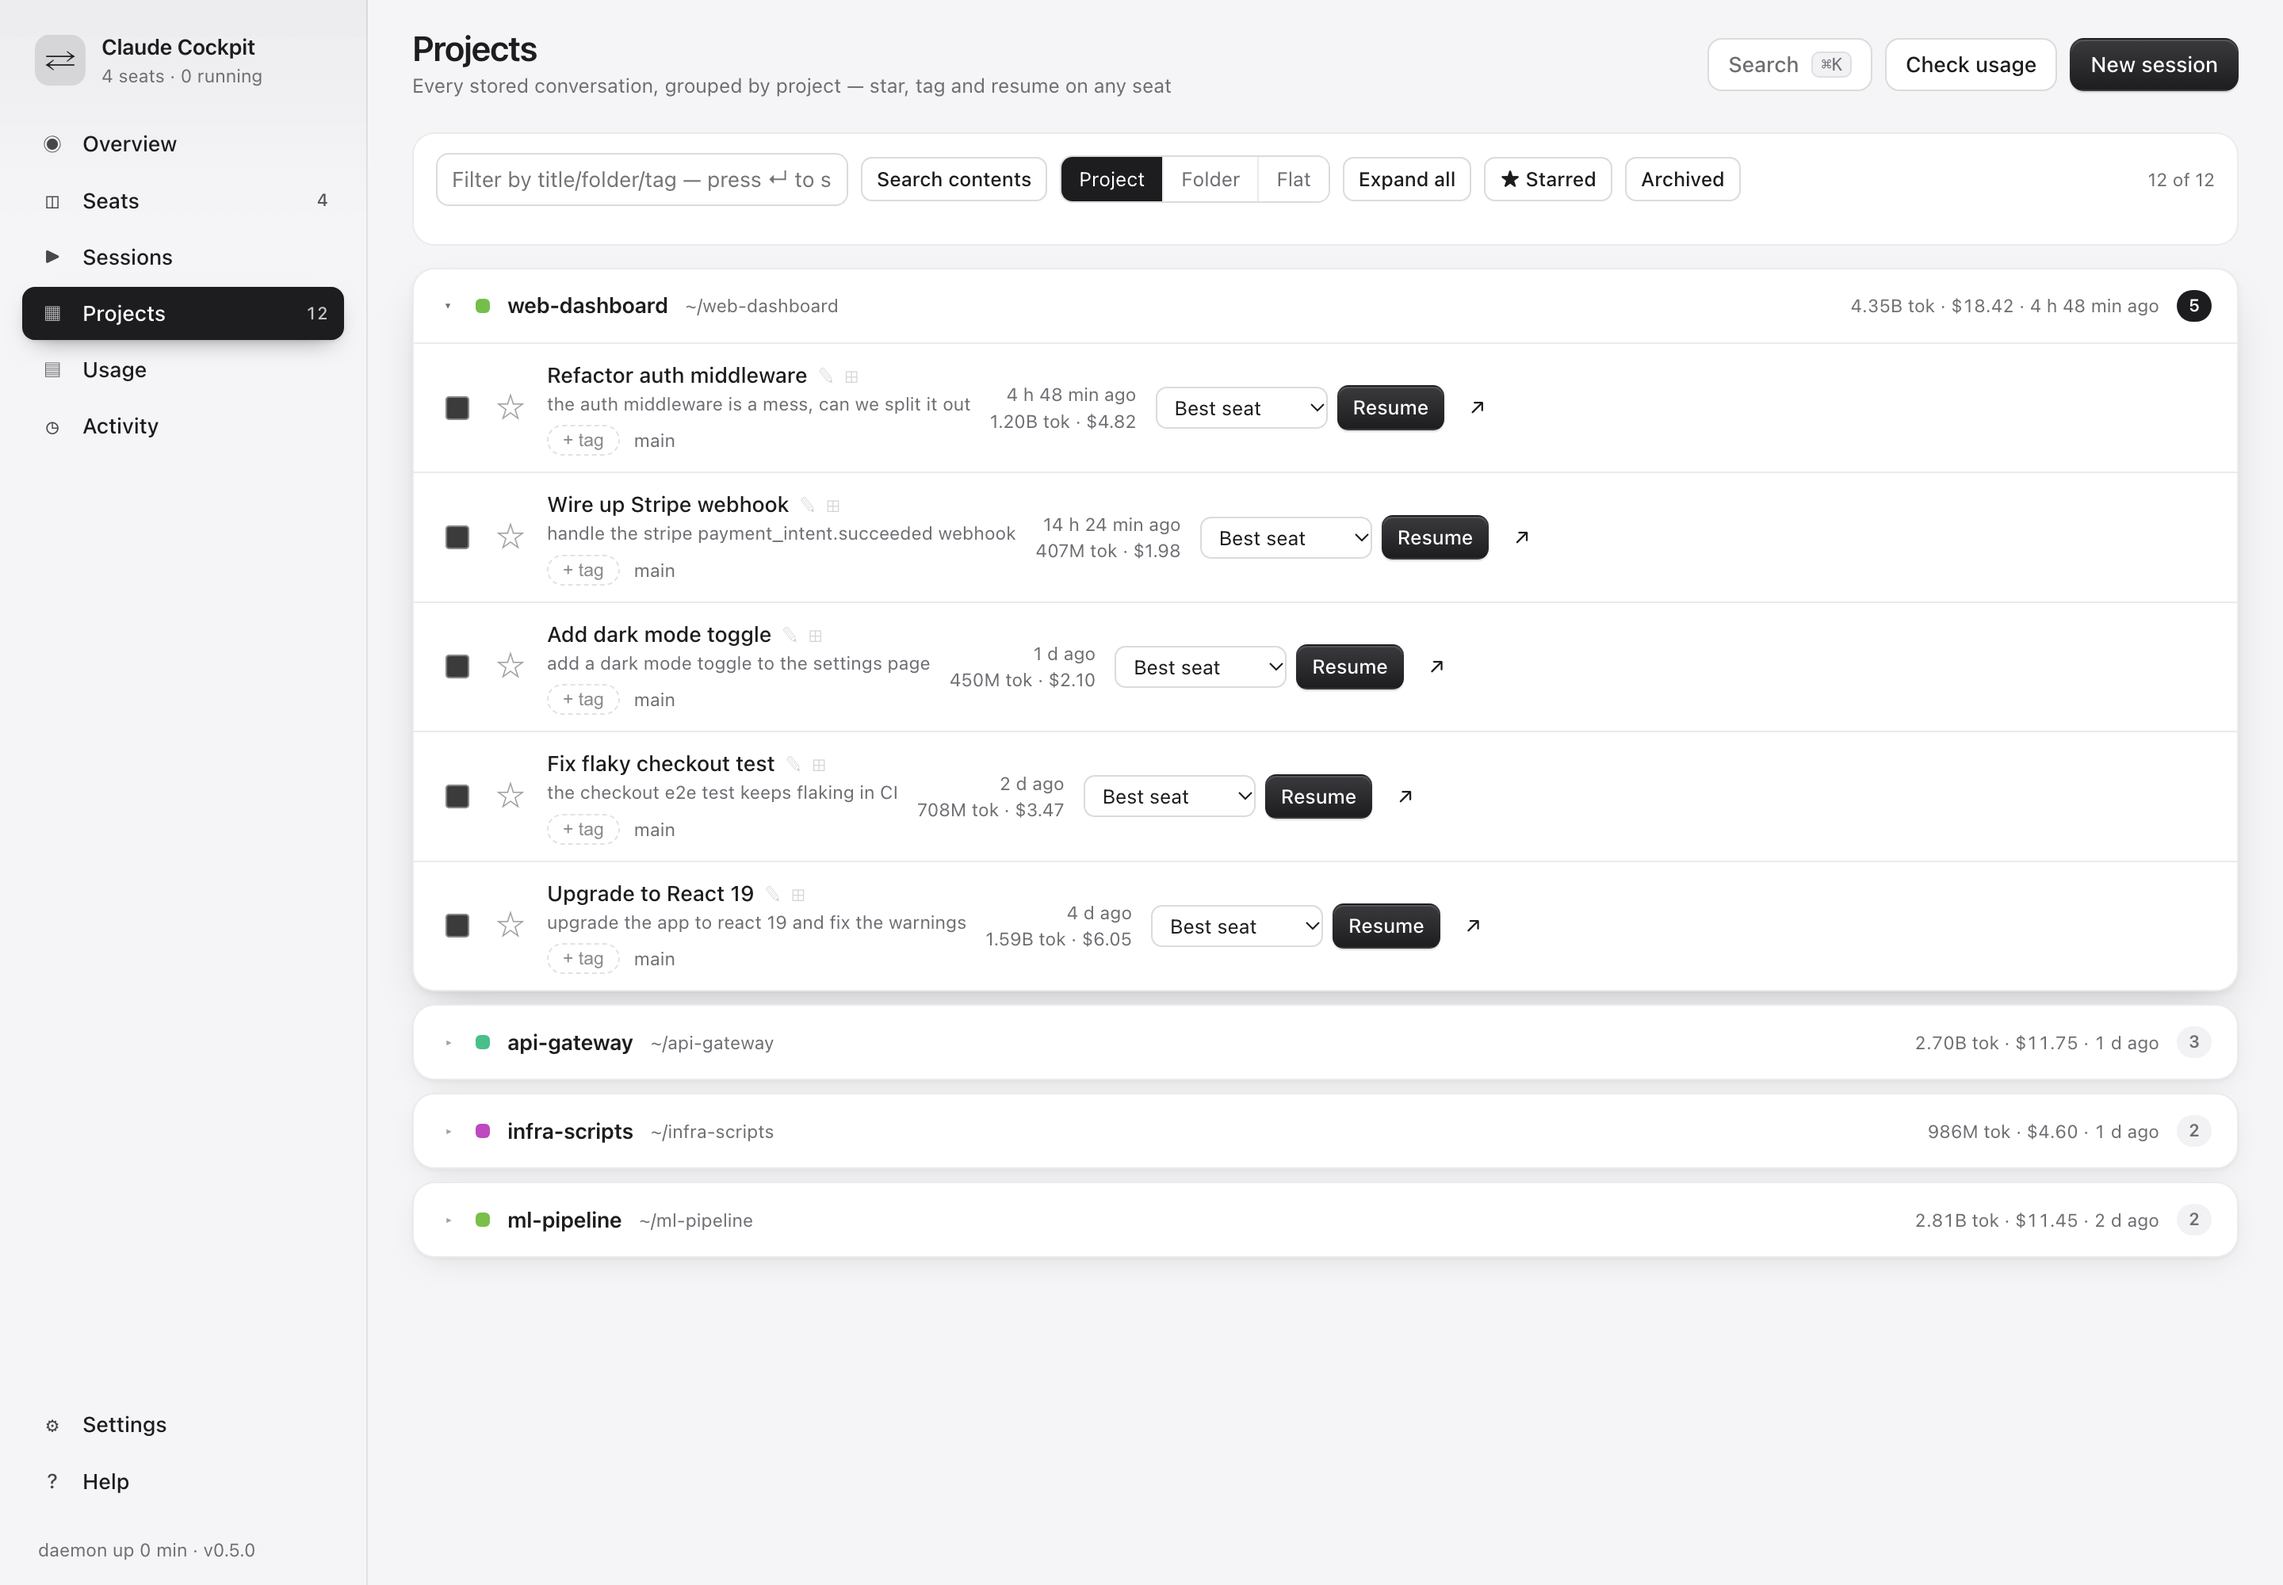
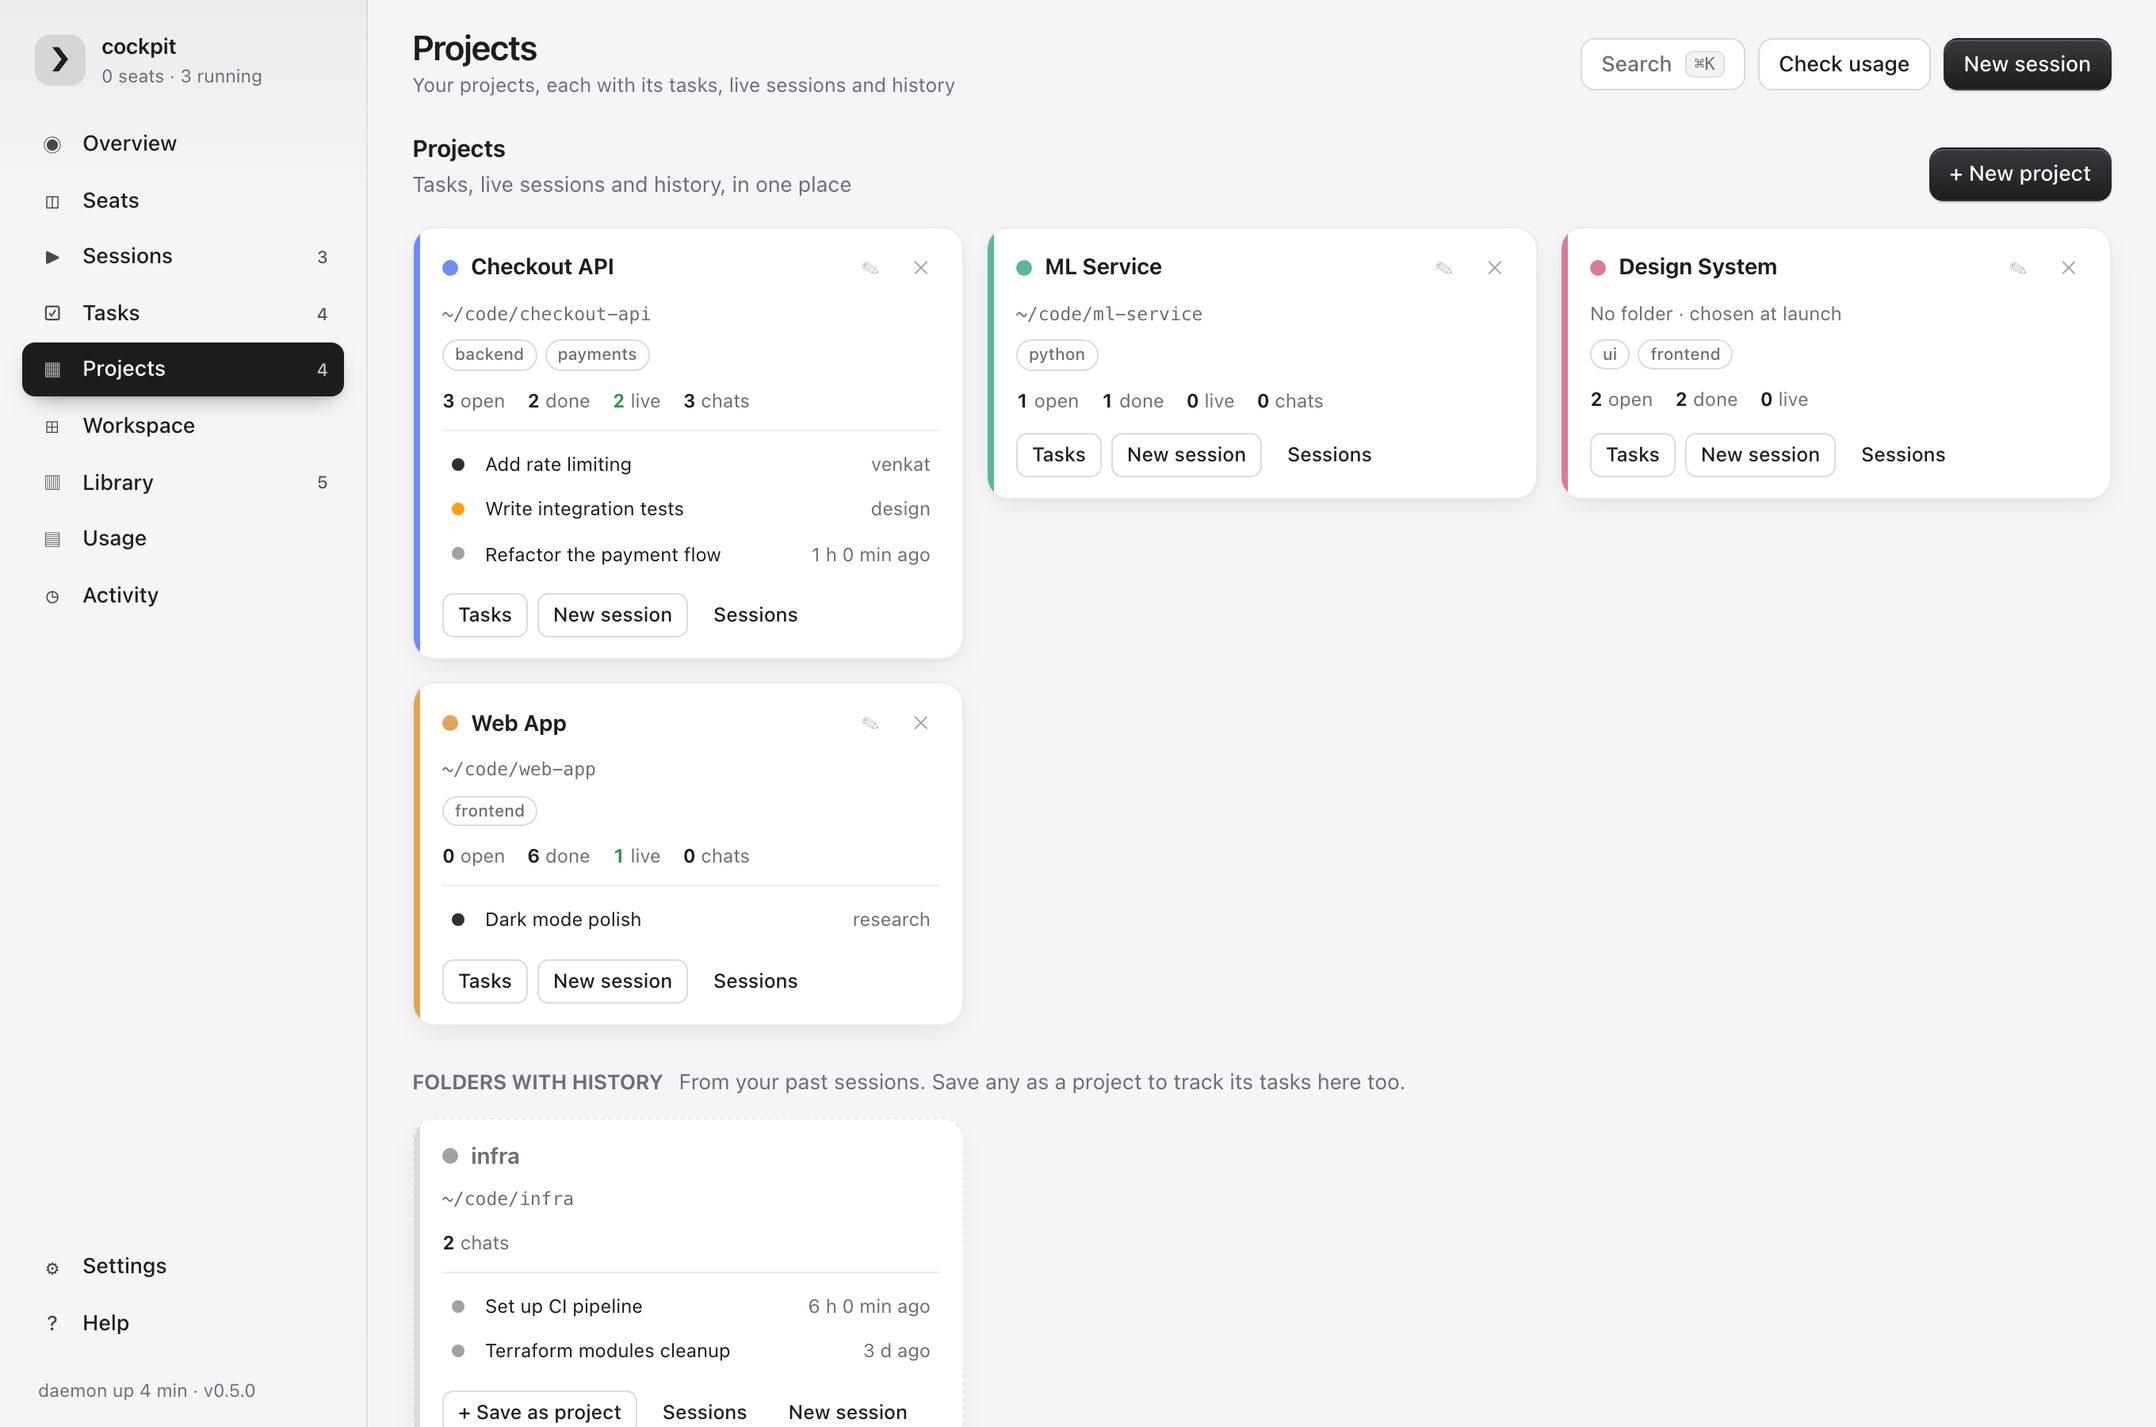
docs: show Projects, Tasks, Library and the drag demo
Refresh the README for the Projects feature: a hub screenshot, the
sessions drawer, the task board, and Library under its new name, plus a
demo GIF of dragging a task across the board. Rewrites the Features copy
to cover projects, the task board and the sessions drawer, and replaces
the stale projects-light.png that still showed the old library view.

diff --git a/README.md b/README.md
@@ -22,6 +22,13 @@
   <img alt="Claude Cockpit dashboard" src="docs/overview-light.png" width="100%">
 </picture>
 
+<br>
+<br>
+
+<img alt="Dragging a task across the board into a live session" src="docs/demo.gif" width="100%">
+
+<sub>Plan a task, drag it across the board, launch it as a live session.</sub>
+
 </div>
 
 ## Why
@@ -55,11 +62,14 @@ Not just an account switcher. This is where your sessions live, run, and get fou
 | **Scheduled runs** | Queue a session to start now, in a few hours, or at a seat's next reset, with an initial task waiting for it. |
 | **Command palette** | Press `⌘K` to jump to any view, seat, session or action. |
 
-### Organize everything
+### Plan &amp; organize
 
 | | |
 |---|---|
-| **Session library** | Every stored conversation, grouped by git repo. Star, tag, note, archive and resume any of them on any seat. |
+| **Projects** | Group work into a named project with an optional folder and tags. Each one gathers its open tasks, live sessions and past conversations in one place. Folders you have already worked in show up automatically, one click from becoming a project. |
+| **Task board** | A drag-and-drop board with spring-physics reordering: Backlog, Ready, In progress, Done. Plan a task, link it to a project, and launch it as a live session in one click. |
+| **Sessions drawer** | Click a project to slide out its live sessions and its full history, each one openable or resumable on any seat. |
+| **Library** | Every stored conversation, grouped by folder or repo. Star, tag, note, filter by project, archive and resume any of them on any seat. |
 | **Full-text search** | Grep across every transcript on the machine and get readable snippets back. |
 | **Bulk actions** | Select a batch of conversations and star, tag, move, archive or delete them in one go. |
 
@@ -88,9 +98,32 @@ Not just an account switcher. This is where your sessions live, run, and get fou
 
 ![Cockpit in the terminal](docs/tui-home.png)
 
-**Projects.** Every conversation grouped into collapsible folders, resumable on any seat.
+**Projects.** Your work grouped into projects: open tasks, live sessions and history in one place. Folders you have already used show up automatically, one click from becoming a project.
 
-![Projects view](docs/projects-light.png)
+![Projects hub](docs/projects-light.png)
+
+**Plan the work.** A drag-and-drop task board. Link a task to a project, then launch it as a live session with one click.
+
+![Task board](docs/tasks-light.png)
+
+<table>
+<tr>
+<td width="50%" valign="top">
+
+**Sessions, revealed.** Click a project to slide out its live sessions and past conversations, resumable on any seat.
+
+![Sessions drawer](docs/projects-drawer-dark.png)
+
+</td>
+<td width="50%" valign="top">
+
+**Library.** Every conversation, grouped by folder. Star, tag, filter by project, resume on any seat.
+
+![Library](docs/library-light.png)
+
+</td>
+</tr>
+</table>
 
 <table>
 <tr>
